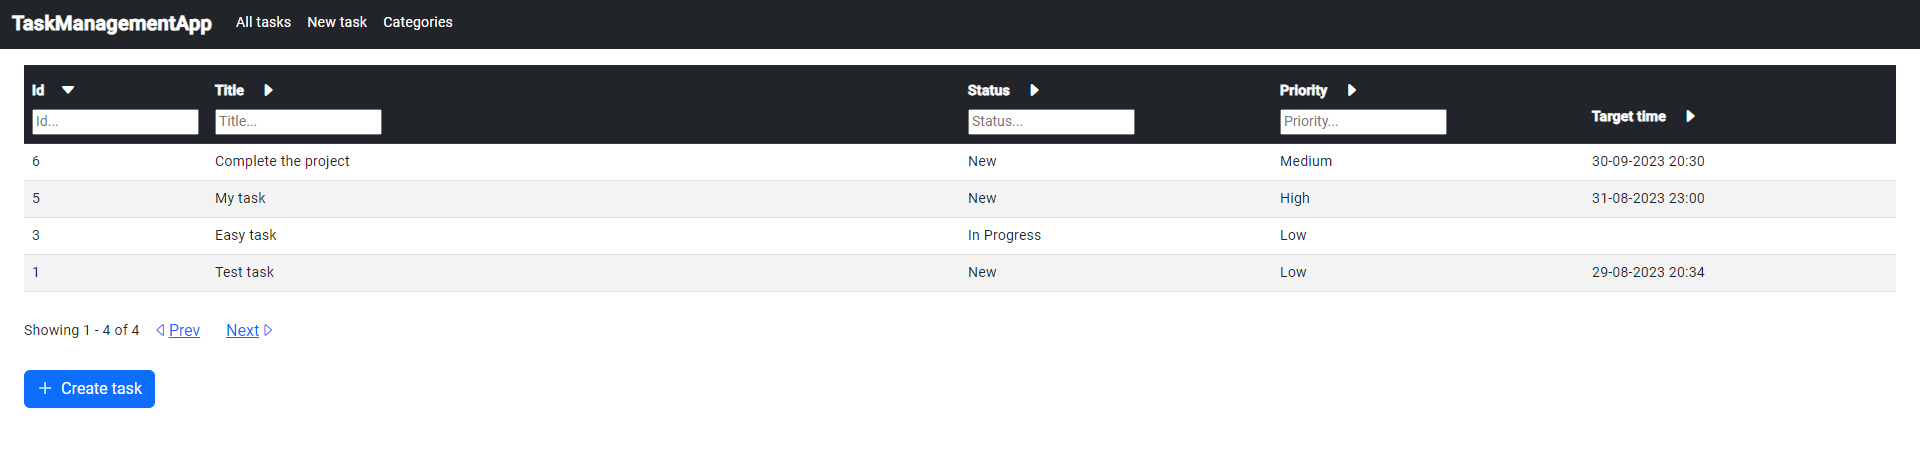
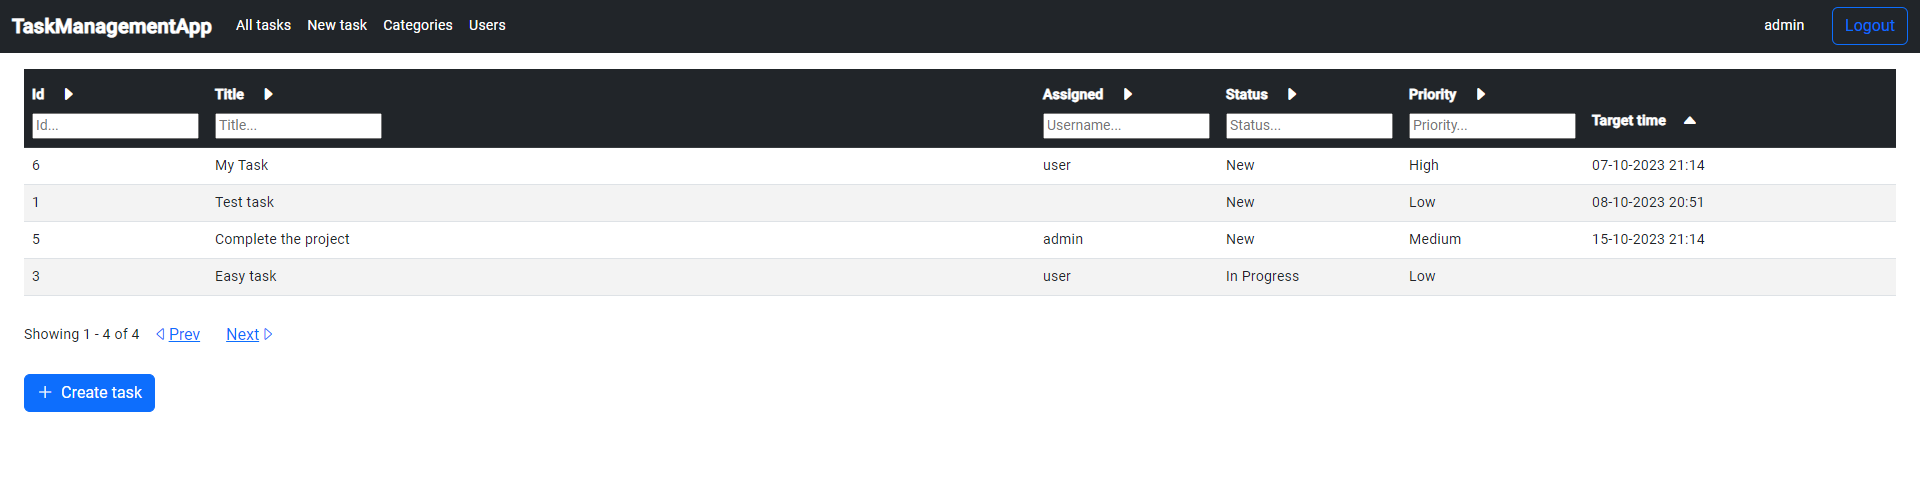
Update README.md

diff --git a/README.md b/README.md
@@ -7,11 +7,10 @@
 
 ## Features and usage
 
-- **Task Management:** Create and manage tasks with detailed information and preferences. Tasks can be assigned specific categories, due dates, status, and priority, allowing users to prioritize their workload effectively. Each task is equipped with a notes section, where users can add relevant details, updates, or additional information. Notes can be edited or deleted as the task progresses. If a task has been completed, users have the option to mark it with an appropriate status, which will remove the task from the main list while still being accessible through filtering and searching options.
-
-- **Category Customization:** Users have the ability to create new categories, edit existing ones and delete categories that are no longer needed. This flexibility ensures that tasks are organized in a manner that suits individual preferences.
-
-- **Sorting and Filtering:** The task list is equipped with sorting and filtering options, allowing users to arrange tasks based on criteria such as id, task title, due date, status, or category. This ensures that users can focus on tasks that require immediate attention.
+- **Task Management:** Create and manage tasks with detailed information and preferences. Each task can be assigned specific category, user, due date, status, and priority, allowing users to prioritize their workload effectively. Each task is equipped with a notes section, where users can add relevant details, updates, or additional information. Notes can be edited or deleted as the task progresses. If a task has been completed, users have the option to mark it with an appropriate status, which will remove the task from the main list while still being accessible through filtering and searching options.
+- **Sorting and Filtering:** The task list is equipped with sorting and filtering options, allowing users to arrange tasks based on criteria such as id, title, assigned user, due date, status, priority or target time. This ensures that users can focus on tasks that require immediate attention.
+- **Security:** The app is secured using Spring Security authentication and authorization with JWT token utilization. There are two available roles: "Admin" and "User.
+- **Admin options:** Admins have some additional capabilities for maintaining the service, such as customizing categories and managing users (adding, editing, deleting).
 
 ## Technologies
 
@@ -45,7 +44,8 @@ To set up and run the project on your local machine:
 
     `ng serve`
 
-6. **Access the App:** Open your browser and navigate to `http://localhost:4200`
+6. **Access the App:** Open your browser and navigate to `http://localhost:4200`.
+   By default, the users created for testing purposes are: "admin" and "user" with a password corresponding to the username.
 
 ## Screenshots
 
@@ -60,3 +60,15 @@ To set up and run the project on your local machine:
 
 ![Category list](screenshots/screenshot4.png)
 > Category list
+
+![User list](screenshots/screenshot5.png)
+> User list
+
+![Login form](screenshots/screenshot6.png)
+> Login form
+
+![Register form](screenshots/screenshot7.png)
+> Register form
+
+![User profile](screenshots/screenshot8.png)
+> User profile page and password change form
